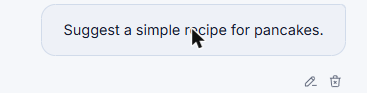
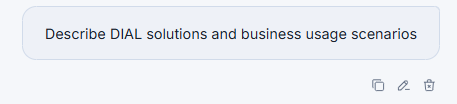
updated conversations

diff --git a/docs_v2/chat-user-guide-new/1.conversations.md b/docs_v2/chat-user-guide-new/1.conversations.md
@@ -144,9 +144,19 @@ Each response shows a row of action icons, in this order: **Regenerate**, **Copy
 
 ### Stages
 
-When an agent performs tool calls, document retrieval, or multi-step reasoning while generating a response, DIAL Chat shows that work as a list of steps. Each step shows its status (running, completed, or failed) and how long it took. Click a step to expand it and see its details.
+When an agent performs tool calls, document retrieval, or multi-step reasoning while generating a response, DIAL Chat shows that work as a list of steps. While the agent works, the list stays open and shows a spinner with the name of the step that is running. When the response is finished, the list collapses to one line, such as **Executed 3 steps**, with the number of failed steps added if there are any. Click that line to open the list again.
+
+Each step shows its status (running, completed, or failed) and, when the agent reports it, how long it took. Click a step to expand it. A step with nothing to show, such as no output, attachments, or sub-steps, is a plain row that does not expand.
 
 ![A response showing its executed steps, including a document search step](img/conversation-stages.png)
+
+An expanded step can contain:
+
+- **Output** — the text the step produced, such as the result of a tool call. Long output scrolls inside the step, and code blocks have a copy button.
+- **Attachments** — files and results the step produced, such as the documents a search step found. They appear as tiles below the output. Click a tile to preview it.
+- **Sub-steps** — steps that happened inside this step. When an agent calls another agent, the steps and attachments of the called agent appear inside the step of the agent that called it. Expand the parent step to follow the work down.
+
+When the same step runs several times in a row, DIAL Chat combines the runs into one row with a count, such as **×3**. Expand it to see each run as **Attempt 1**, **Attempt 2**, and so on. The row shows as running while any attempt is still running, and as failed if any attempt failed.
 
 When you use a [skill](#use-a-skill-in-a-message), the steps include a **Reading Skill** step named after the skill. Expand it to see the **Skill Content** the agent read.
 
@@ -171,9 +181,20 @@ When an agent answers from your documents, it marks each statement with a citati
 
 ![A response with inline citations, and an open citation card showing the source passage and a Preview button](img/citations.png)
 
-Open a citation to see the passage the agent actually drew on, quoted from the source. Click **Preview** to open the document itself and read the passage in context.
+Each citation is a button that shows the name of the source file. When the agent cites several passages of the same source, the button adds a count, such as **report.pdf +2**.
 
-A citation points at a location, not just a file: the passage in a text document, the relevant rows of a table, or the region of a PDF page. PDFs open in the chat, so you can check a citation without downloading anything.
+What happens when you click a citation depends on what it points at:
+
+- **One passage of a file** — the file opens directly in the preview panel on the right. A PDF opens at the cited place, so you can read the passage in context without downloading anything.
+- **Several passages of the same source, or a web link** — a card opens first. For a file, the card header shows the file type icon and extension. Its switcher (**1/3**, with previous and next arrows) moves between the passages, which can come from different files. The card shows the passage the agent drew on, quoted from the source. A long quote is cut off, and **Show more** expands it. Click **Preview** to open the file, or **Download** to save it. For a web link, the button reads **Open in browser** instead.
+
+![A response with citations, and the cited PDF open in the preview panel](img/citations-in-stages.png)
+
+While the preview panel is open, clicking another single-passage citation switches the preview to that file, so you can check several sources one after another. The preview panel has **Download** and close icons in its top-right corner.
+
+A citation points at a location, not just a file: the passage in a text document, the relevant rows of a table, or the region of a PDF page.
+
+Citations also appear in the output of a [step](#stages), for example in the result of a document search.
 
 ### Sources panel
 
@@ -183,17 +204,41 @@ Click an entry to preview it in place, without downloading it. Previews cover te
 
 ![The sources panel controls: search, download all, and close](img/tables-processing.png)
 
-## Edit and delete messages
+## Work with your messages
 
-Each message you sent shows an **Edit** and a **Delete** icon.
+Each message you sent shows **Copy**, **Edit**, and **Delete** icons, in this order.
 
-![Edit and delete icons under a sent message](img/message-edit-delete.png)
+![Copy, edit, and delete icons under a sent message](img/message-edit-delete.png)
 
-- **Edit** — change a message in the ongoing conversation. You can also attach a file to the edited message. Click **Save & Submit** to regenerate the response, or **Cancel** to discard your changes. After you save an edit, the response is regenerated and all messages after the edited one are deleted.
+### Copy a message
 
-  ![A message open for editing, with Cancel and Save & Submit buttons](img/message-edit-mode.png)
+Click **Copy** to copy the text of your message. If the message uses [skills](#use-a-skill-in-a-message), the copied text includes a link to each skill.
 
-- **Delete** — delete a message in the ongoing conversation. The corresponding response is deleted too.
+### Edit a message
+
+Click **Edit** to change a message in the ongoing conversation. You can also attach a file to the edited message. Click **Save & Submit** to regenerate the response, or **Cancel** to discard your changes. After you save an edit, the response is regenerated and all messages after the edited one are deleted.
+
+![A message open for editing, with Cancel and Save & Submit buttons](img/message-edit-mode.png)
+
+### Delete a message
+
+Click **Delete** to delete a message in the ongoing conversation. The corresponding response is deleted too.
+
+## Reply to part of a message
+
+Use **Reply** to ask about a specific passage of a message, yours or a response:
+
+1. Select the text you want to ask about.
+2. Click the **Reply** button that appears next to the selection.
+
+DIAL Chat attaches the selected text to your next message as a text file and puts the cursor in the message composer. Write your question and send it. The file is named `reply-` followed by a random identifier and `.txt`, and it appears above the text box like any other attachment. You can remove it before you send.
+
+![The Reply button above selected text, and the reply attachment in the message composer](img/reply-in-chat.png)
+
+To use the keyboard, select text with Shift and the arrow keys, then press **Tab** to move to the **Reply** button. Press **Esc** to hide the button.
+
+**Note**
+> **Reply** does not appear when the selection is inside a button or other control, such as a code block's actions. It is also unavailable while a response is being generated, while you edit a message, and when the selected agent does not accept text file attachments. In a conversation that someone shared with you, **Reply** is not available at all, because you cannot add messages to it. To ask about a shared conversation, [duplicate it](#duplicate-a-conversation) first.
 
 ## Conversation settings
 
